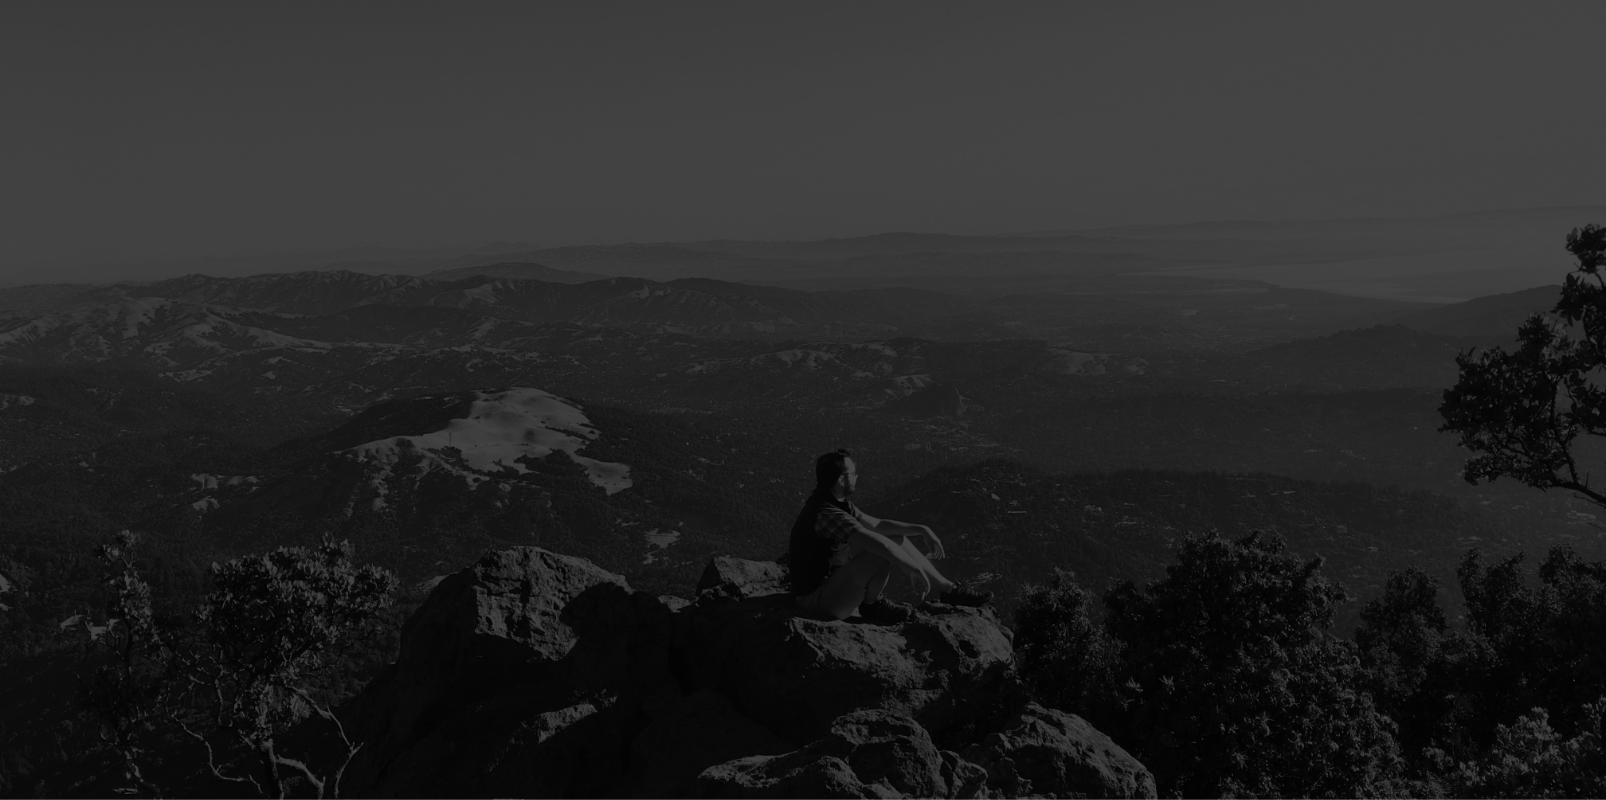
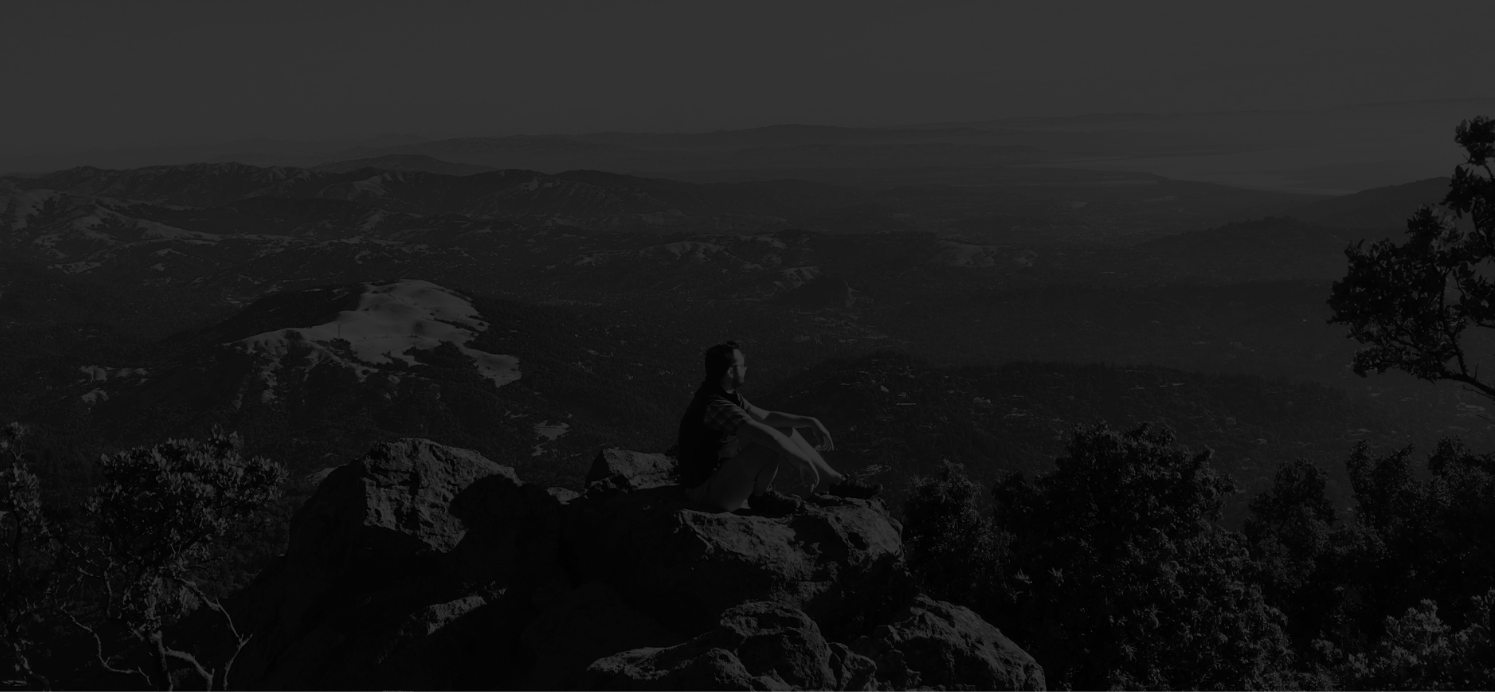
main: structure and style landing page

diff --git a/public/html/index.html b/public/html/index.html
@@ -6,13 +6,37 @@
   <meta name="viewport" content="width=device-width, initial-scale=1.0">
   <!-- Bootstrap -->
   <link href="https://cdn.jsdelivr.net/npm/bootstrap@5.0.0-beta2/dist/css/bootstrap.min.css" rel="stylesheet" integrity="sha384-BmbxuPwQa2lc/FVzBcNJ7UAyJxM6wuqIj61tLrc4wSX0szH/Ev+nYRRuWlolflfl" crossorigin="anonymous">
+  <script src="https://cdn.jsdelivr.net/npm/bootstrap@5.0.0-beta2/dist/js/bootstrap.bundle.min.js" integrity="sha384-b5kHyXgcpbZJO/tY9Ul7kGkf1S0CWuKcCD38l8YkeH8z8QjE0GmW1gYU5S9FOnJ0" crossorigin="anonymous"></script>
   <!-- Google Fonts -->
+  <link rel="preconnect" href="https://fonts.gstatic.com">
+<link href="https://fonts.googleapis.com/css2?family=Kanit:wght@900&family=Roboto+Mono:wght@100;300;400&display=swap" rel="stylesheet">
   <!-- Stylesheet -->
+  <link href="../css/style.css" rel="stylesheet">
   <!-- JQuery -->
   <script src="https://code.jquery.com/jquery-3.5.1.min.js" integrity="sha256-9/aliU8dGd2tb6OSsuzixeV4y/faTqgFtohetphbbj0=" crossorigin="anonymous"></script>
   <title>Jordan Kelly</title>
 </head>
 <body>
-  
+  <div class="container-fluid">
+    <div class="row hero">
+      <div class="col-12 p-5 d-flex align-items-end">
+        <div>
+          <h4 class="mono-font-lt color fs-2">Web Developer</h4>
+          <h1 class="fancy-font color display-1">JORDAN KELLY</h1>
+        </div>
+      </div>
+    </div>
+    <div class="row justify-contents-around pt-5">
+      <div class="col-4 pt-2">
+        <h2 class="text-center mono-font dark">Life</h2>
+      </div>
+      <div class="col-4 pt-2">
+        <h2 class="text-center mono-font dark">Work</h2>
+      </div>
+      <div class="col-4 pt-2">
+        <h2 class="text-center mono-font dark">Blog</h2>
+      </div>
+    </div>
+  </div> 
 </body>
 </html>

diff --git a/public/css/style.css b/public/css/style.css
@@ -1,0 +1,46 @@
+/***** GLOBAL *****/
+* {
+  box-sizing: border-box;
+}
+
+body {
+  background: #f6f5f5;
+}
+
+.hero {
+  height: 750px;
+  background: url("../img/profile-hero-800px.png") no-repeat center;
+  background-size: cover;
+}
+
+/* BACKGROUNDS */
+.lt-bg {
+  background: #e6e6e6;
+}
+.dk-bg {
+  background: #393e46;
+}
+
+/* TEXT STYLES */
+.fancy-font {
+  font-family: 'Kanit', sans-serif;
+}
+.mono-font-lt {
+  font-family: 'Roboto Mono', monospace;
+  font-weight: 100;
+}
+.mono-font {
+  font-family: 'Roboto Mono', monospace;
+  font-weight: 400;
+}
+.color {
+  color: #fad586;
+}
+.dark {
+  color: #0f0f0f;
+}
+.light {
+  color: #e6e6e6;
+}
+
+
